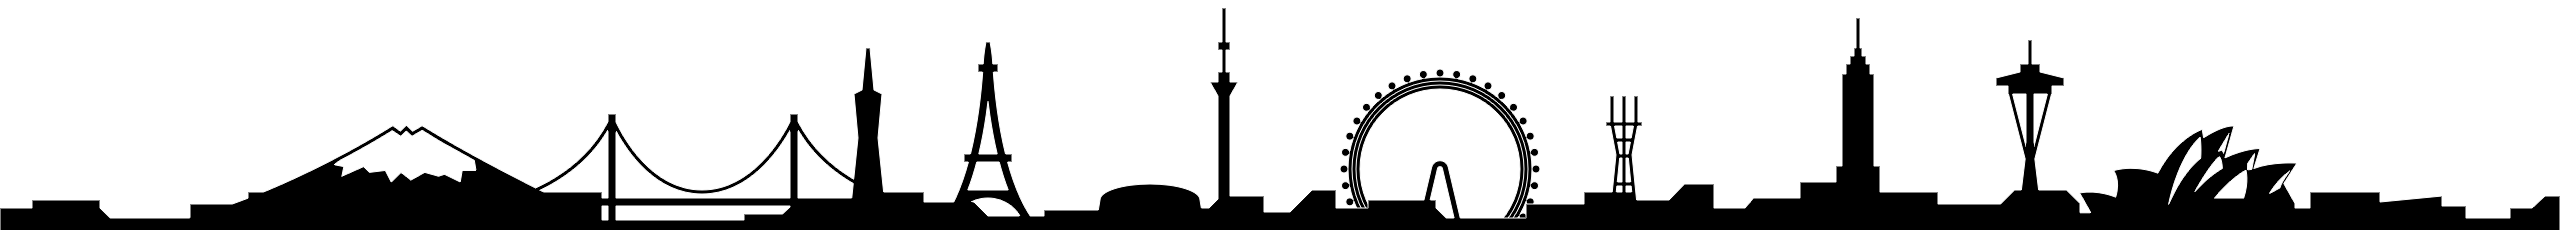
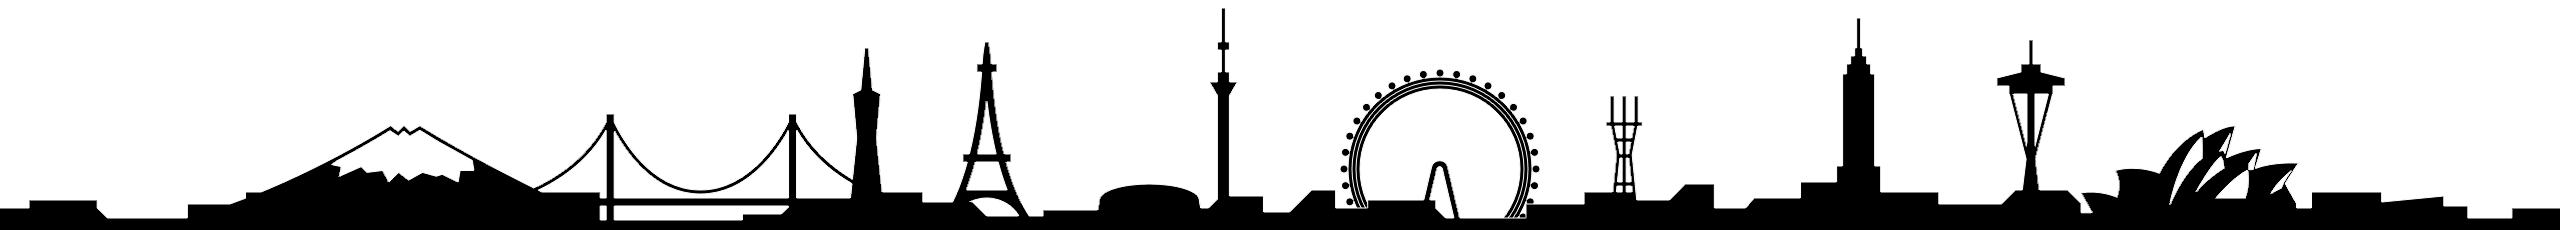
more photo updates to the about page

diff --git a/servers/website/public/less/landing/hero.less b/servers/website/public/less/landing/hero.less
@@ -231,15 +231,15 @@
         content: "";
         position: absolute;
         z-index: 0;
-        top: -100px;
+        top: -115px;
         width: 100%;
-        height: 100px;
+        height: 115px;
         left: 0;
         right: 0;
         background: url("/imgs/landmarks.png");
         background-repeat: repeat-x;
-        background-position: center bottom;
-        background-size: 1500px;
+        background-position: center top;
+        background-size: 1280px;
       }
       
       .founder {
